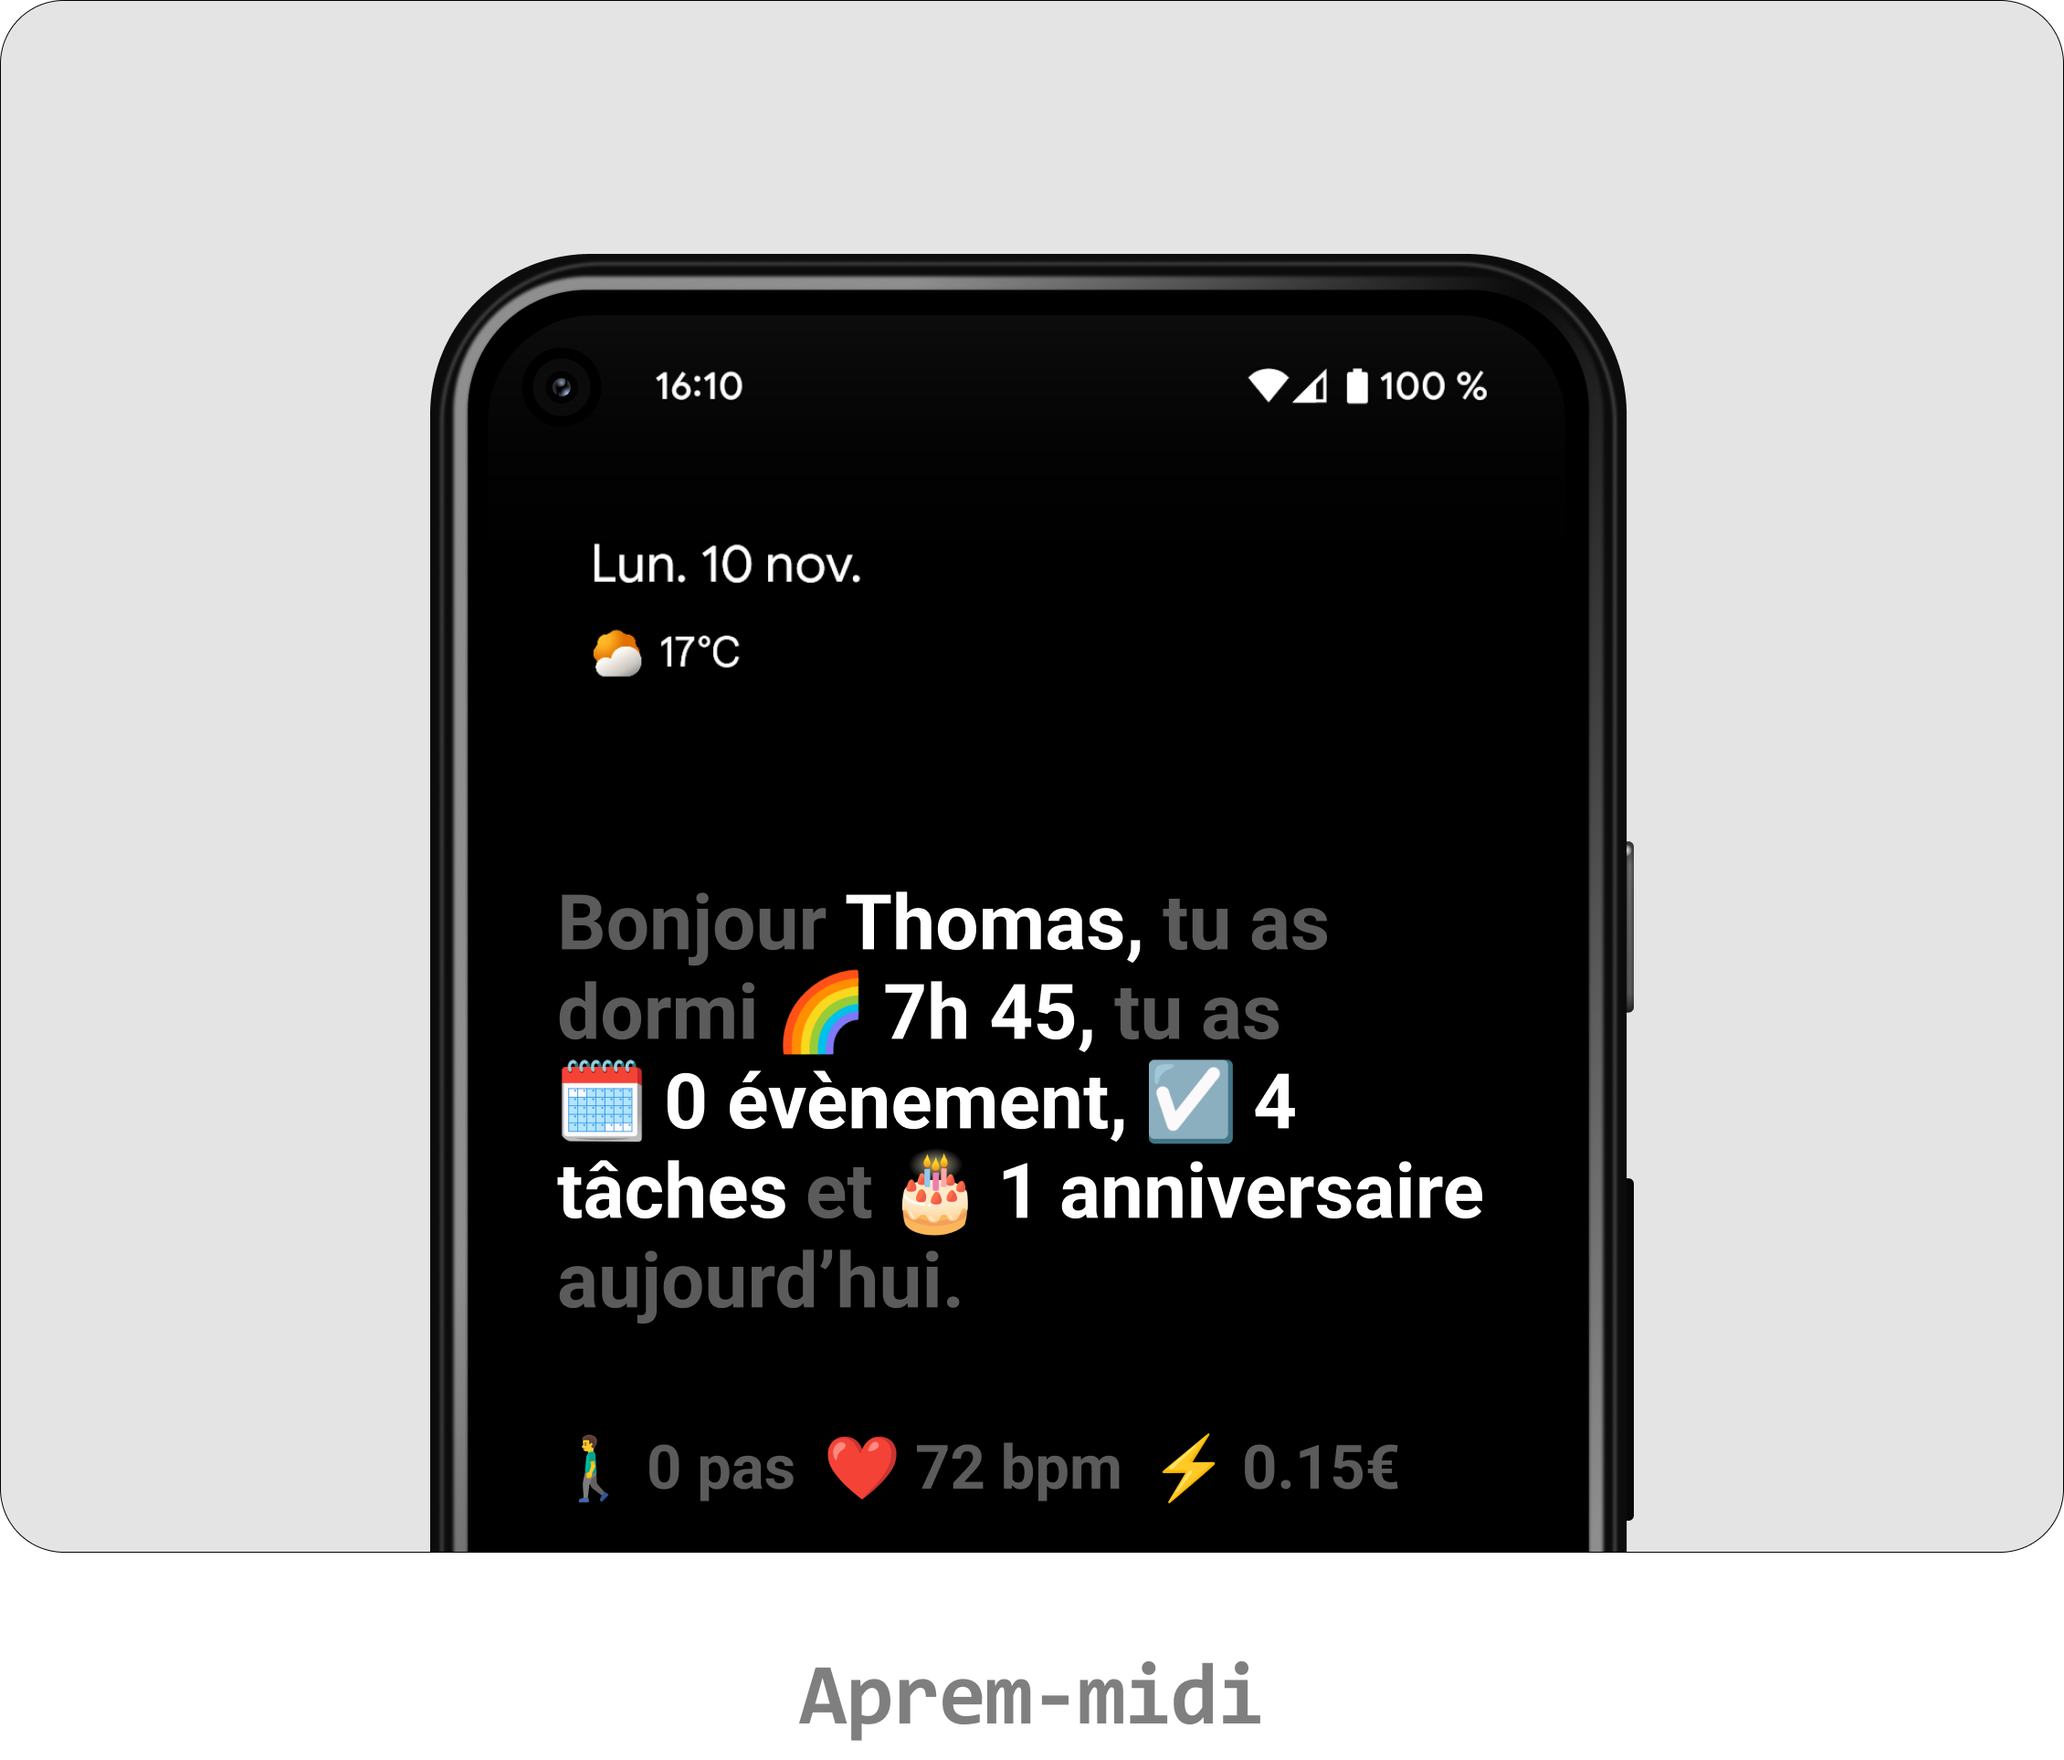
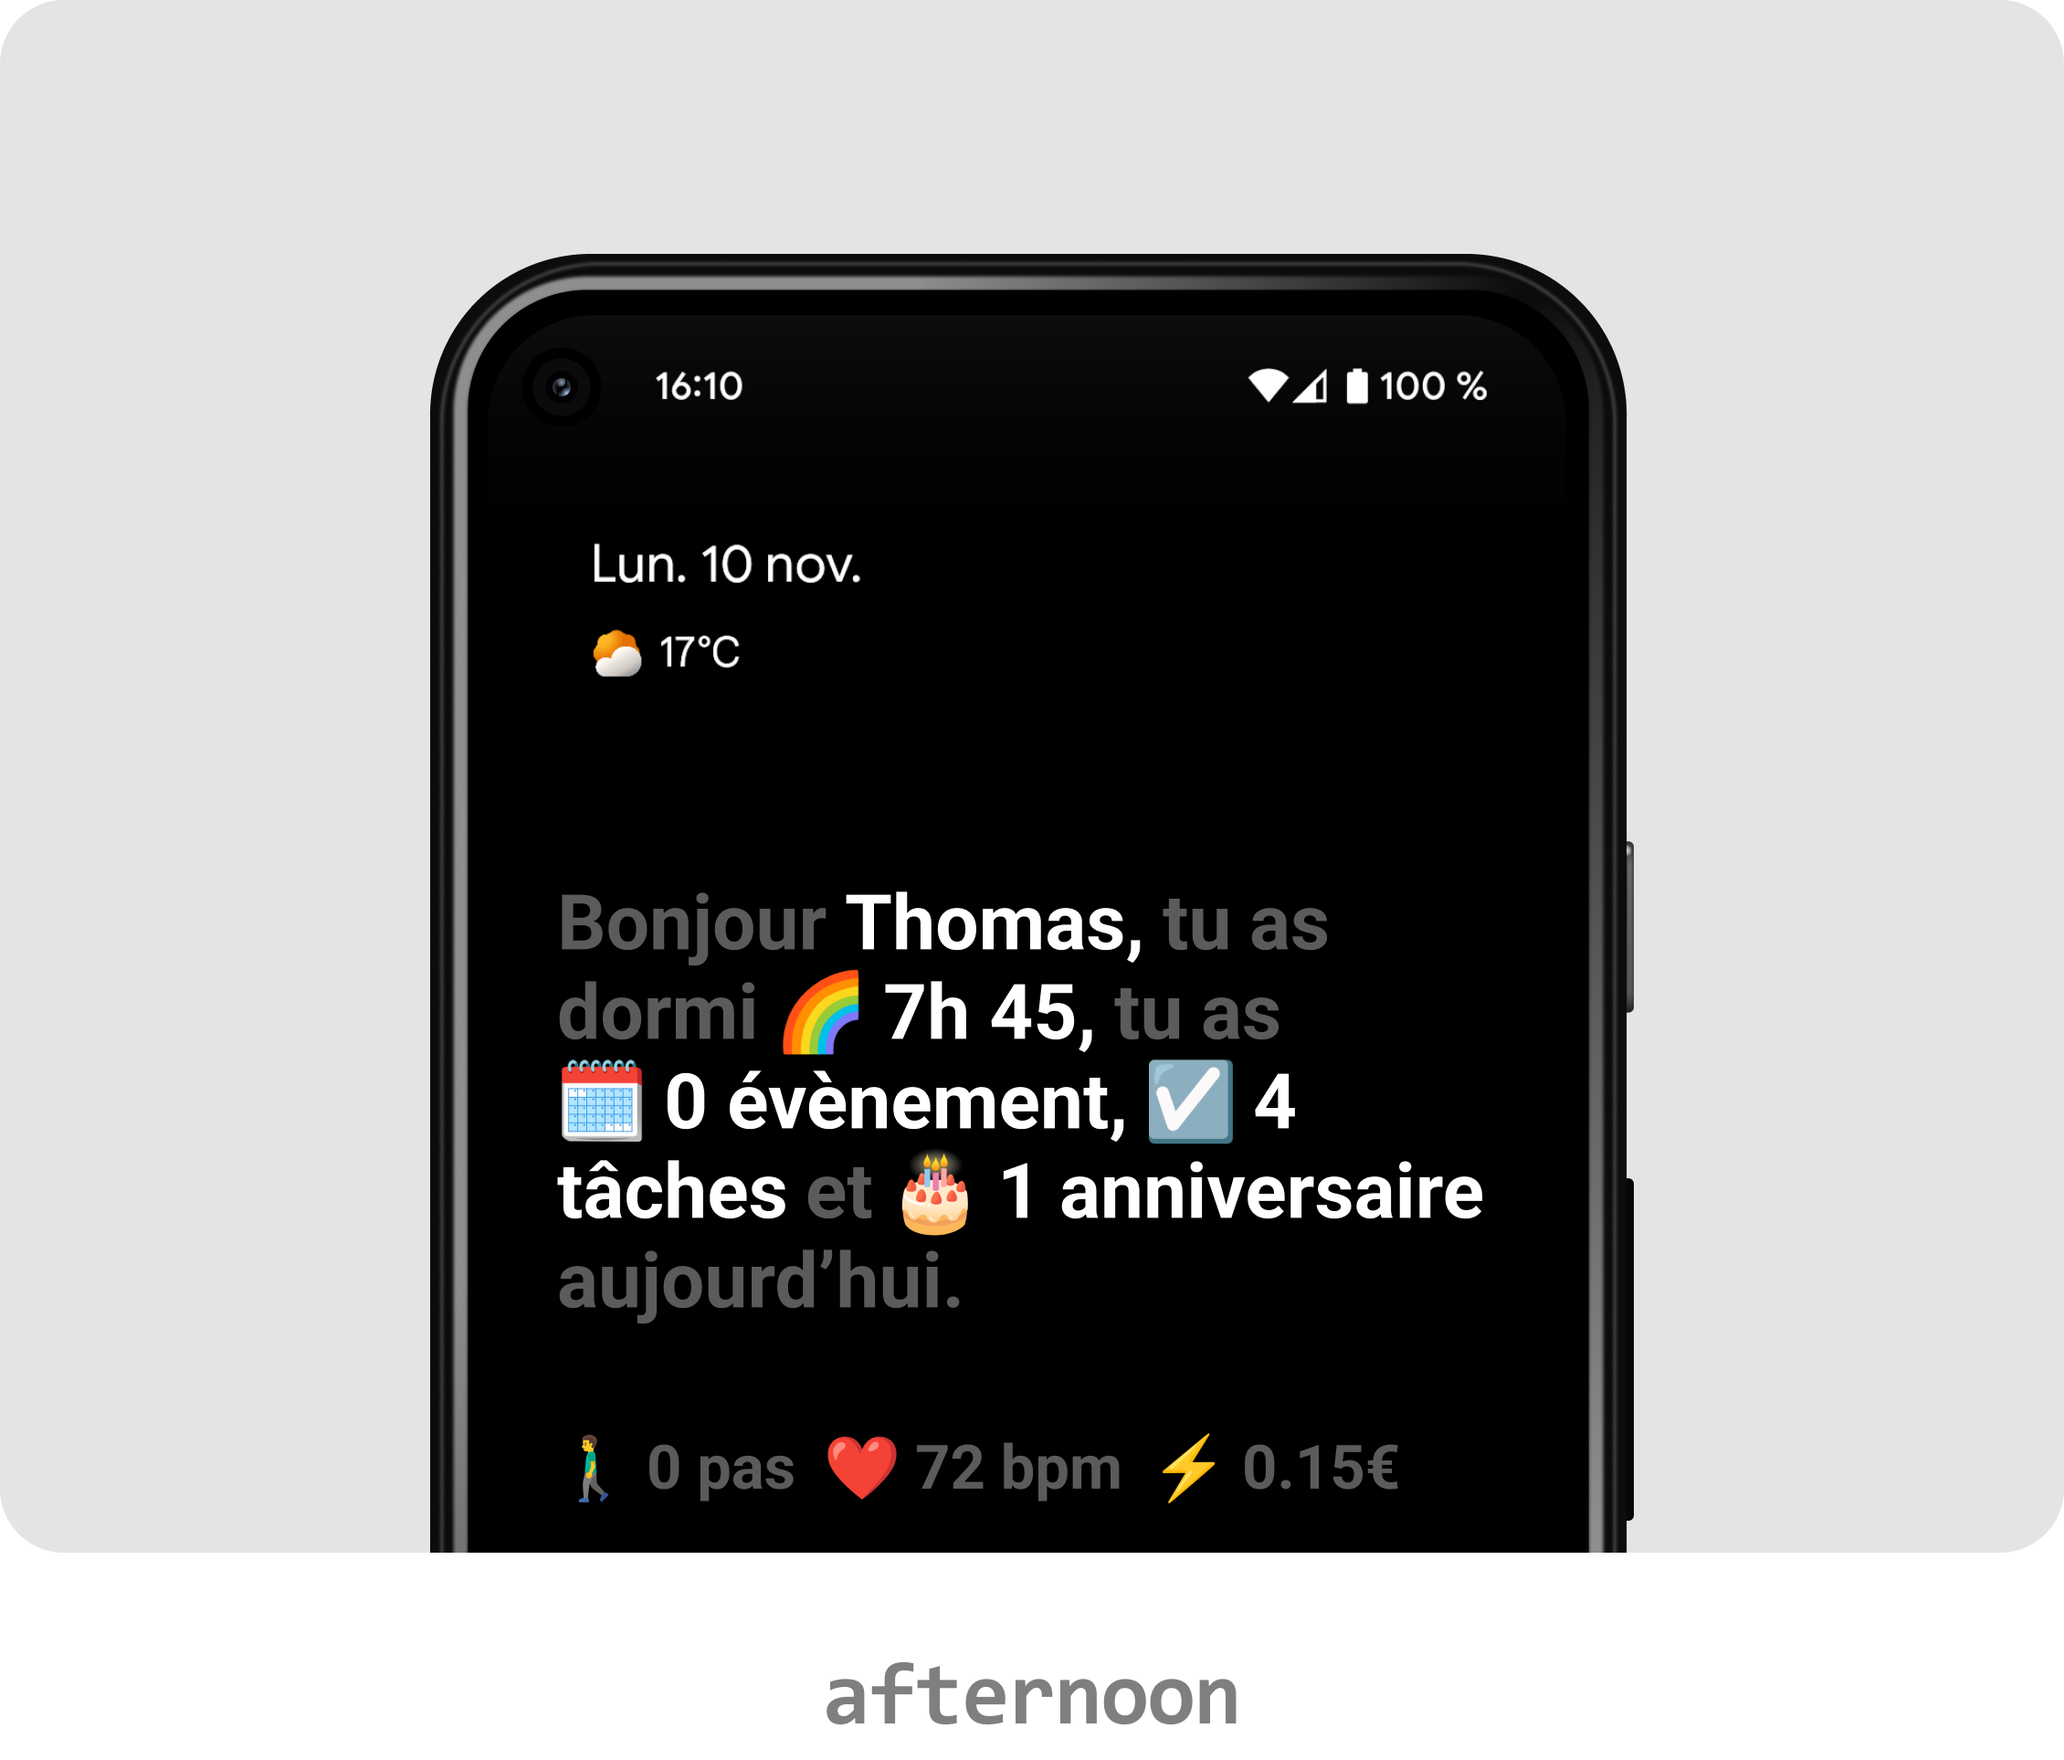
Update documentation

Changed region(s): [[0.3717, 0.9341, 0.6195, 0.9964]]

diff --git a/README.md b/README.md
@@ -2,38 +2,48 @@
 
 > A minimalist Android widget for Home Assistant displaying your daily summary with contextual messages based on time of day.
 
-[![Home Assistant](https://img.shields.io/badge/Home%20Assistant-Compatible-41BDF5?style=flat&logo=homeassistant&logoColor=ffffff)](https://www.home-assistant.io/)
-[![License](https://img.shields.io/badge/License-MIT-yellow.svg)](LICENSE)
-[![Language](https://img.shields.io/badge/Language-Jinja2-red)](https://jinja.palletsprojects.com/)
-[![Buy Me A Coffee](https://img.shields.io/badge/Buy%20Me%20A%20Coffee-Support-FFDD00?logo=buymeacoffee&logoColor=white)](https://buymeacoffee.com/tben)
+<p>
+  <img src="assets/badges/home-assistant.png" height="28" alt="Home Assistant Compatible" />
+  <img src="assets/badges/buy-me-a-coffee.png" height="28" alt="Buy Me a Coffee" />
+</p>
 
 <p align="left">
-  <img src="assets/screenshots/widget_cover.png" width="100%" />
+  <img src="assets/screenshots/widget-cover.gif" width="100%" />
 </p>
 
 **Inspired by [Joi Planner](https://joi.software/)** - An excellent app that I wanted to recreate with my own Home Assistant data!
 
 ## Features
 
-- 🌅 **Contextual messages** - Different messages based on time of day (morning, afternoon, evening, night)
-- 😴 **Sleep duration** - Display sleep time via smartphone integration
-- 📅 **Remaining events** - Only counts upcoming events in the day
+- ☀ **Contextual messages** - Different messages based on time of day (morning, afternoon, evening, night)
 - ✅ **Smart tasks** - Automatically filters tasks for today (includes overdue and no-date tasks)
+- 📅 **Remaining events** - Only counts upcoming events in the day
+- 🌙 **Sleep duration** - Display sleep time via smartphone integration
 - 🎂 **Birthdays** - Automatic detection of today's birthdays
-- 🚶♂ **Daily statistics** - Step count and power consumption
+- 📊 **Daily statistics** - Step count and power consumption
 - 🎨 **Customizable** - Emojis, colors, and data fully configurable
 
 ## Display Examples
 
-<p align="center">
-  <img src="assets/screenshots/widget_morning.png" width="30%" style="padding: 0 10px;" />
-  <img src="assets/screenshots/widget_afternoon.png" width="30%" style="padding: 0 10px;" />
-  <img src="assets/screenshots/widget_evening.png" width="30%" style="padding: 0 10px;" />
-</p>
-
-<p align="center">
-  <i>Morning • Afternoon • Evening</i>
-</p>
+<table style="border: none;">
+<tr>
+<td width="33%" align="center" valign="top" style="border: none;">
+<img src="assets/screenshots/widget_morning.png" width="100%" />
+<br/>
+Morning
+</td>
+<td width="33%" align="center" valign="top" style="border: none;">
+<img src="assets/screenshots/widget_afternoon.png" width="100%" />
+<br/>
+Afternoon
+</td>
+<td width="33%" align="center" valign="top" style="border: none;">
+<img src="assets/screenshots/widget_evening.png" width="100%" />
+<br/>
+Evening
+</td>
+</tr>
+</table>
 
 ## Quick Installation
 
@@ -51,7 +61,7 @@
 Copy the content of [`config/configuration_example.yaml`](config/configuration_example.yaml) into your `configuration.yaml`.
 
 **Required sensors:**
-- `sensor.taches_aujourd_hui` - Counts tasks for today
+- `sensor.tasks_today` - Counts tasks for today
 - `sensor.events_today` - Counts remaining events
 
 ### 2. Restart Home Assistant
@@ -63,23 +73,20 @@ Restart HA or reload templates:
 
 <table>
 <tr>
-<td width="33%" align="center" valign="top">
-<img src="assets/screenshots/step1_widget_list.png" width="100%" />
-<br/>
+<td width="33%" valign="top">
+<p align="center"><img src="assets/screenshots/step1_widget_list.png" width="100%" /></p>
 <b>1. Widget List</b>
 <br/>
 Long press on home screen and select Home Assistant
 </td>
-<td width="33%" align="center" valign="top">
-<img src="assets/screenshots/step2_template_widget.png" width="100%" />
-<br/>
+<td width="33%" valign="top">
+<p align="center"><img src="assets/screenshots/step2_template_widget.png" width="100%" /></p>
 <b>2. Choose Template</b>
 <br/>
 Select the Template widget
 </td>
-<td width="33%" align="center" valign="top">
-<img src="assets/screenshots/step3_widget_config.png" width="100%" />
-<br/>
+<td width="33%" valign="top">
+<p align="center"><img src="assets/screenshots/step3_widget_config.png" width="100%" /></p>
 <b>3. Configure & Save</b>
 <br/>
 Paste code, set size to 28, Transparent theme, White text

diff --git a/docs/troubleshooting.md b/docs/troubleshooting.md
@@ -7,7 +7,7 @@ Solve the most common problems with your widget.
 ## 🚫 Sensors Don't Appear
 
 ### Symptom
-After HA restart, `sensor.taches_aujourd_hui` and/or `sensor.events_today` don't appear in **Developer Tools > States**.
+After HA restart, `sensor.tasks_today` and/or `sensor.events_today` don't appear in **Developer Tools > States**.
 
 ### Solutions
 
@@ -66,7 +66,7 @@ In widget template, verify names:
 
 ```jinja2
 {% set ENTITIES = {
-  'tasks': 'sensor.taches_aujourd_hui',  # ← Does it exist?
+  'tasks': 'sensor.tasks_today',  # ← Does it exist?
   'steps': 'sensor.thomas_daily_steps',  # ← Does it exist?
   ...
 } %}
@@ -77,7 +77,7 @@ In widget template, verify names:
 - **Developer Tools > Template**
 - Test:
 ```jinja2
-{{ states('sensor.taches_aujourd_hui') }}
+{{ states('sensor.tasks_today') }}
 ```
 - If returns `unknown` or `unavailable` → Sensor not configured correctly
 
@@ -148,7 +148,7 @@ Common errors:
 
 ```jinja2
 {% set ENTITIES = {
-  'tasks': 'sensor.taches_aujourd_hui',  # ← Check exact name
+  'tasks': 'sensor.tasks_today',  # ← Check exact name
   ...
 } %}
 ```

diff --git a/docs/installation.md b/docs/installation.md
@@ -94,7 +94,7 @@ entity_id: todo.thomas
 **4.1 Open Developer Tools > States**
 
 **4.2 Find your new sensors:**
-- `sensor.taches_aujourd_hui` ✅
+- `sensor.tasks_today` ✅
 - `sensor.events_today` ✅
 
 **4.3 Check values**
@@ -146,7 +146,7 @@ In the **USER PARAMETERS** section of the template:
 {% set CURRENCY = '€' %}           # ← Currency
 
 {% set ENTITIES = {
-  'tasks': 'sensor.taches_aujourd_hui',
+  'tasks': 'sensor.tasks_today',
   'steps': 'sensor.YOUR_daily_steps',        # ← ADAPT THIS
   'conso': 'sensor.YOUR_power_consumption',  # ← ADAPT THIS
   'sleep': 'sensor.YOUR_sleep_duration'      # ← ADAPT THIS
